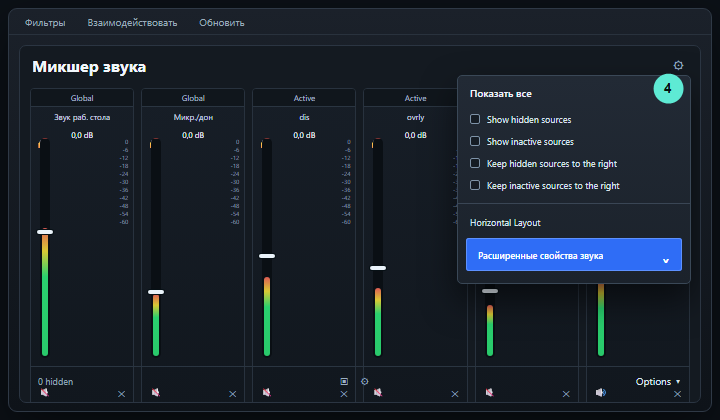
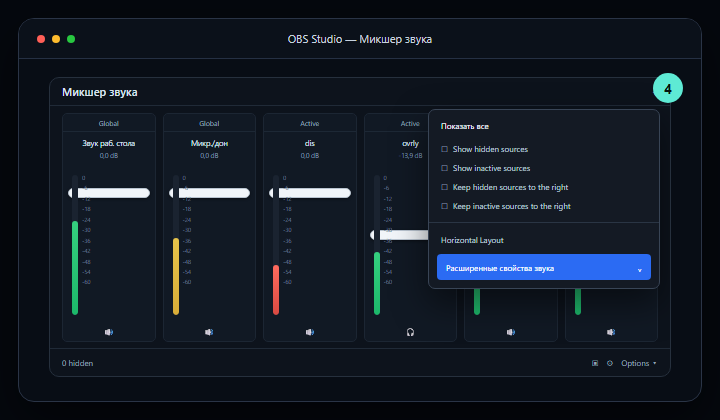
docs(guide): redraw steps 4 and 5 in the shared OBS window style

diff --git a/lib/guide.ts b/lib/guide.ts
@@ -22,13 +22,13 @@ export const GUIDE_STEPS = [
 	{
 		title: 'Открой расширенные свойства звука',
 		text: 'В микшере OBS нажми на шестерёнку у нужного источника и выбери «Расширенные свойства звука».',
-		image: '/guide/step-4-advanced-audio.png?v=7',
+		image: '/guide/step-4-advanced-audio.png?v=8',
 		alt: 'Микшер OBS: меню настроек и пункт «Расширенные свойства звука»',
 	},
 	{
 		title: 'Включи прослушивание и вывод',
 		text: 'В строке оверлея выбери «Прослушивание и вывод» — так звук оверлея будет слышно и в стриме, и в наушниках.',
-		image: '/guide/step-5-monitor.png?v=5',
+		image: '/guide/step-5-monitor.png?v=6',
 		alt: 'Расширенные свойства звука OBS: для оверлея выбрано «Прослушивание и вывод»',
 	},
 	{
